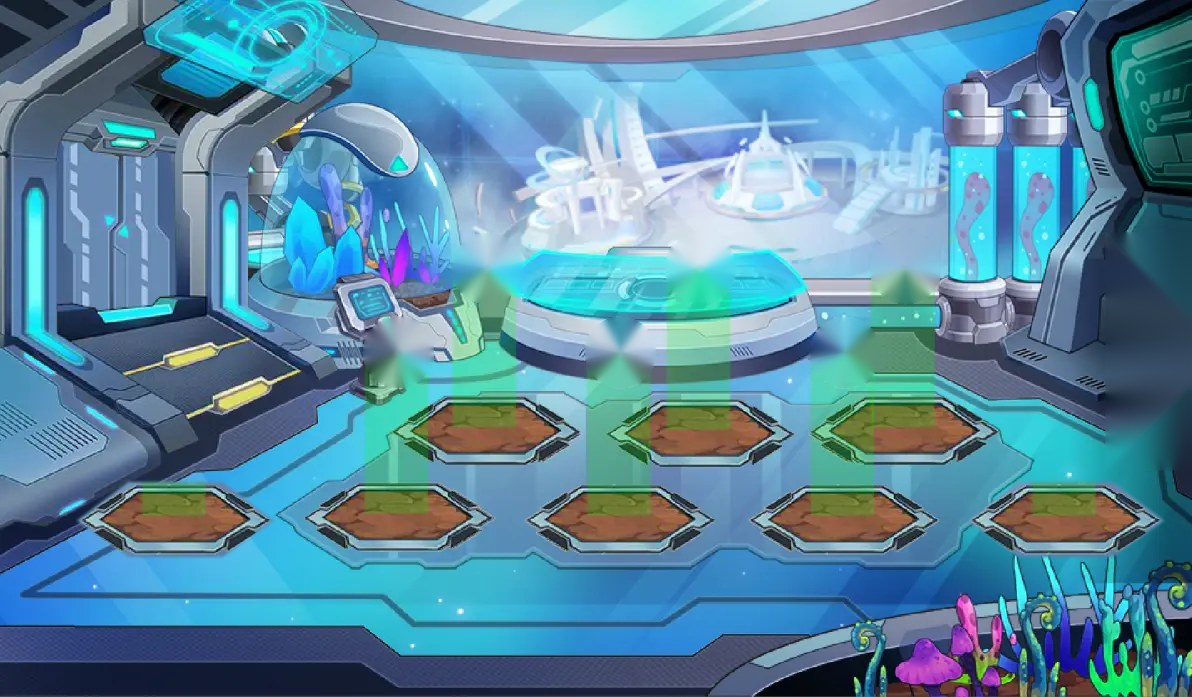
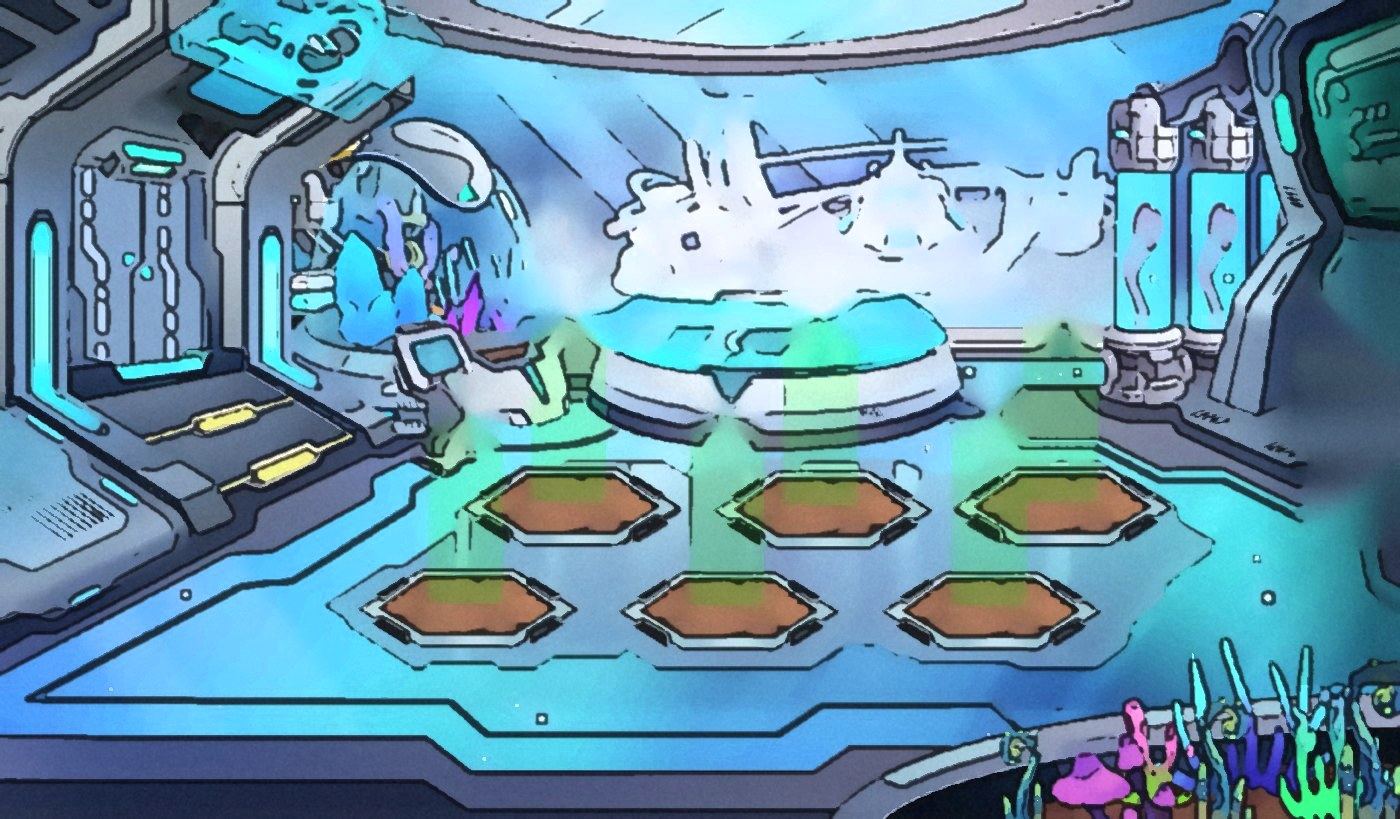
种植园：改为 6 块田（多买的第 7、8 块用邮件退还），菜单回到左侧中间，背景换成和基地一样的手绘风格
Claude-Session: https://claude.ai/code/session_014eRY2W2EarstaPs5b1tgXJ

diff --git a/js/ui/game.js b/js/ui/game.js
@@ -6526,12 +6526,11 @@
     return (h ? h + ' 小时 ' : '') + (h || m ? m + ' 分 ' : '') + s + ' 秒';
   }
   /* 2026-11-04：种植园改成和基地一样的场景（背景 images/base/farm.jpg），左边是功能菜单，左下角「前往基地」。
-   * 8 块田按背景图摆：t 是田的中心，b 是田上方的气泡（正好盖住原图里手套图标的位置）；还没开的田显示锁。
-   * 田的顺序就是存档里 acc.farm.plots 的顺序：前 4 块是基础的，后 4 块是种子商店扩建的。 */
+   * 6 块田按背景图摆：t 是田的中心，b 是田上方的气泡（正好盖住原图里手套图标的位置）；还没开的田显示锁。
+   * 田的顺序就是存档里 acc.farm.plots 的顺序：前 4 块是基础的，后 2 块是种子商店扩建的（2026-11-04 起一共 6 块）。 */
   var FARM_POS = [
     { t: [41.1, 61.7], b: [40.9, 38.5] }, { t: [59.6, 61.7], b: [58.7, 38.5] }, { t: [75.5, 61.7], b: [75.9, 38.5] },
-    { t: [33.6, 73.9], b: [33.4, 50.5] }, { t: [52.0, 73.9], b: [52.0, 50.5] }, { t: [70.5, 73.9], b: [70.9, 50.5] },
-    { t: [14.7, 74.6], b: [14.7, 50.5], beam: 1 }, { t: [89.3, 74.6], b: [89.3, 50.5], beam: 1 }
+    { t: [33.6, 73.9], b: [33.4, 50.5] }, { t: [52.0, 73.9], b: [52.0, 50.5] }, { t: [70.5, 73.9], b: [70.9, 50.5] }
   ];
   var SPROUT_SVG = '<svg class="it-ic" viewBox="0 0 64 64" aria-hidden="true"><g stroke="#23422b" stroke-width="2.5" stroke-linejoin="round" stroke-linecap="round"><path d="M32 58V30" fill="none"/><path d="M32 38c-2-10-10-14-20-13 1 10 8 15 20 13z" fill="#7cc95a"/><path d="M32 31c2-11 11-16 22-15-1 11-10 16-22 15z" fill="#5fb548"/></g></svg>';
   function farmReadyN() { if (!acc || !farmOpen()) return 0; return farm().plots.filter(farmReady).length; }
@@ -6546,7 +6545,6 @@
     var lab = st === 'lock' ? '扩建' : st === 'empty' ? '种植' : st === 'ready' ? '收获' : farmClock(p);
     var tip = '田 ' + (i + 1) + (st === 'lock' ? '：还没开，可以在种子商店扩建' : st === 'empty' ? '：空着，点一下种植' : st === 'ready' ? ' · ' + itemName(p.seed) + '：成熟了，点一下收获「' + itemName(S.crop) + '」×' + S.yield : ' · ' + itemName(p.seed) + '：还要 ' + farmLeftText(p));
     return '<div class="fp fp-' + st + '" data-fp="' + i + '">' +
-      (P.beam && st !== 'lock' ? '<i class="fp-beam" style="left:' + P.t[0] + '%;top:' + P.b[1] + '%;height:' + (P.t[1] - P.b[1] - 4).toFixed(1) + '%"></i>' : '') +
       '<button type="button" class="fp-soil" data-fpi="' + i + '" style="left:' + P.t[0] + '%;top:' + P.t[1] + '%" aria-label="' + esc(tip) + '">' + (st === 'grow' || st === 'ready' ? '<span class="fp-crop' + (st === 'ready' ? ' ripe' : '') + '">' + (st === 'ready' ? H.itemIcon(S.crop) : SPROUT_SVG) + '</span>' : '') + '</button>' +
       '<button type="button" class="fp-bub" data-fpi="' + i + '" style="left:' + P.b[0] + '%;top:' + P.b[1] + '%" title="' + esc(tip) + '" aria-label="' + esc(tip) + '"><span class="fp-ic">' + ic + '</span><span class="fp-lab" data-fpclock="' + i + '">' + lab + '</span></button></div>';
   }

diff --git a/js/data/changelog.js b/js/data/changelog.js
@@ -4,7 +4,7 @@
  * 航行日志默认展开最新一条，更早的折叠在「更早的改动」里。
  * ========================================================== */
 var CHANGELOG = [
-  { date: '2026-11-04', title: '太空种植园改版', items: ['太空种植园改成和基地一样的场景：8 块田摆在种植舱里，点田上方的气泡就能种植、收获，没开的田显示锁，可以在种子商店扩建', '左边新增菜单：一键收获、一键种植、种子商店、作物仓库', '基地左下角新增「前往种植园」，有成熟的作物时会亮红点；种植园左下角是「前往基地」，基地里有精灵可以收获经验时也会亮红点'] },
+  { date: '2026-11-04', title: '太空种植园改版', items: ['太空种植园改成和基地一样的场景：6 块田摆在种植舱里，点田上方的气泡就能种植、收获，没开的田显示锁，可以在种子商店扩建', '左边新增菜单：一键收获、一键种植、种子商店、作物仓库', '太空种植园一共 6 块田（基础 4 块，最多扩建 2 块）。之前扩建了第 7、8 块田的船员，买田的能量和田里的作物会通过邮件退还', '基地左下角新增「前往种植园」，有成熟的作物时会亮红点；种植园左下角是「前往基地」，基地里有精灵可以收获经验时也会亮红点'] },
   { date: '2026-11-03', title: 'Wiki 获得方式修正', items: ['按游戏里实际的获得途径，重新核对了 Wiki 里所有精灵的获得方式', '补上了圣晶石召唤（稀有精灵精元、当期 UP 精灵精元）、争霸赛兑换券、冰块里的亚哆、炙热核心的火月鼠等途径', '不再把米饭火鸡、亚哆写成会自然出现的野生精灵，也不再把「瘴气污染的记录」列为可以遇到精灵的地方；修正了叶粒魔种被误写成神秘精灵的问题'] },
   { date: '2026-11-03', title: '放生一键选择', items: ['放生页的「选中全部常见精灵」不再选中超过 30 级的精灵（异色精灵本来就不会选中），练过的精灵需要放生时请手动勾选'] },
   { date: '2026-11-03', title: '登录后默认进基地', items: ['每次打开游戏，登录后默认来到自己的基地（基地还没开放的船员照旧回到上次的页面）'] },

diff --git a/js/engine/award.js b/js/engine/award.js
@@ -231,6 +231,22 @@ var AWD = (function () {
         (oldAcc ? '\n另外送上累积经验 ×50,000 作为补偿。' : '') + '\n请领取附件。', att: { exp: oldAcc ? 50000 : 0, energy: pe, items: pn ? { pot200: pn } : undefined } }, now);
       else seen['pot-swap'] = now;
     }
+    // 2026-11-04：太空种植园改成 6 块田（基础 4 块 + 最多扩建 2 块）。之前买了第 7、8 块田的：退还买这两块田的能量，
+    // 田里种着的照常给（成熟了给作物，没成熟退种子），然后把多出来的田收掉
+    var FM = a.farm, FMAX = GROW.FARM_N + GROW.FARM_EXTRA_MAX;
+    if (FM && typeof FM === 'object' && ((FM.extra | 0) > GROW.FARM_EXTRA_MAX || (Array.isArray(FM.plots) && FM.plots.length > FMAX))) {
+      var fx = FM.extra | 0, fe = 0, fit = {};
+      for (var fi = GROW.FARM_EXTRA_MAX; fi < Math.min(fx, GROW.PLOT_PRICE.length); fi++) fe += GROW.PLOT_PRICE[fi];
+      (Array.isArray(FM.plots) ? FM.plots.slice(FMAX) : []).forEach(function (p) {
+        var S = p && GROW.SEEDS[p.seed]; if (!S) return;
+        if (now - p.t >= S.min * 60000) { fit[S.crop] = (fit[S.crop] || 0) + S.yield; if (S.back >= 1) fit[p.seed] = (fit[p.seed] || 0) + 1; }
+        else fit[p.seed] = (fit[p.seed] || 0) + 1;
+      });
+      FM.extra = Math.min(fx, GROW.FARM_EXTRA_MAX); if (Array.isArray(FM.plots)) FM.plots = FM.plots.slice(0, FMAX);
+      if (fe || Object.keys(fit).length) send(a, { id: 'farm6', title: '太空种植园改为 6 块田 · 退还', body: '{name}，你好！\n太空种植园改版后一共 6 块田（基础 4 块，最多扩建 2 块）。' +
+        (fe ? '\n你之前多扩建的田已经收回，退还买田的能量 ×' + fmt(fe) + '。' : '') + (Object.keys(fit).length ? '\n那几块田里种着的作物（成熟了的照常收获，没成熟的退回种子）一并放在附件里。' : '') + '\n请领取附件。',
+        att: { energy: fe, items: Object.keys(fit).length ? fit : undefined } }, now);
+    }
     // 2026-10-21：先驱之塔奖励提高，给之前爬过塔的船员补差额
     if (!seen['tower-x10']) {
       var TW0 = a.tower, nf = TW0 ? (TW0.clears || 0) * PVE.TOWER.top + Math.max(0, (TW0.f || 1) - 1) : 0, ce = 0, ct = 0;

diff --git a/css/style.css b/css/style.css
@@ -3683,7 +3683,6 @@ html.land-rot .sheet { height: 100%; overflow-y: auto; overflow-x: hidden; -webk
 .fp-empty .fp-lab { background: rgba(40, 120, 70, .9); }
 .fp-lock .fp-bub { filter: grayscale(.7); opacity: .8; }
 .fp-lock .fp-lab { background: rgba(60, 60, 70, .82); }
-.fp-beam { position: absolute; transform: translateX(-50%); width: 5%; background: linear-gradient(to bottom, rgba(120, 255, 160, 0), rgba(120, 255, 160, .32) 35%, rgba(120, 255, 160, .32)); pointer-events: none; z-index: 1; }
 @keyframes fpBob { 0%, 100% { transform: translate(-50%, -50%); } 50% { transform: translate(-50%, -62%); } }
 @keyframes fpSway { 0%, 100% { transform: translateX(-50%) rotate(-4deg); } 50% { transform: translateX(-50%) rotate(4deg); } }
 @keyframes fpPop { 0% { transform: translate(-50%, -50%) scale(1); } 40% { transform: translate(-50%, -50%) scale(1.12); } 100% { transform: translate(-50%, -50%) scale(1); } }
@@ -3702,7 +3701,6 @@ html.land-rot .sheet { height: 100%; overflow-y: auto; overflow-x: hidden; -webk
 .sg-dot { position: absolute; top: -5px; right: -5px; width: 12px; height: 12px; border-radius: 50%; background: var(--red); border: 2px solid #fff; }
 .base-room.editing .scene-go { display: none; }
 @media (max-width: 560px) { .scene-go { left: 6px; bottom: 6px; padding: 4px 8px; font-size: 11.5px; gap: 4px; } .sg-ic { font-size: 14px; } .fp-bub { border-width: 1.5px; } }
-@media (min-width: 761px) { .farm-side { top: 10px; transform: none; } }   /* 种植园：菜单放左上角，免得挡住最左边那块田的气泡 */
 @container (max-width: 620px) {   /* 手机：两排气泡离得近，不显示气泡下面的文字（点气泡会提示剩余时间），气泡大一点好点 */
   .fp-lab { display: none; }
   .fp-bub { width: 8.4%; }

diff --git a/js/engine/grow.js b/js/engine/grow.js
@@ -457,8 +457,8 @@ var GROW = (function () {
 
   /* ---------- 太空种植园：种下种子，到时间收获 ----------
    * 药草、活力花卉收获时有 20% 的概率掉 1 颗种子（back），水稻种子一定退回。种子在生态舱的种子商店用能量买（seedShop），
-   * 商店还卖额外的种植栏位：基础 4 块田，最多再加 4 块（a.farm.extra） */
-  var FARM_N = 4, FARM_EXTRA_MAX = 4, PLOT_PRICE = [2000, 4000, 8000, 16000], SEED_PRICE = 100, SEED_SHOP = ['s_herb', 's_flower'], SEED_SHOP_MAX = 99;
+   * 商店还卖额外的种植栏位：基础 4 块田，最多再加 2 块（a.farm.extra；2026-11-04 起一共 6 块，原来最多 8 块，多买的由 award.js 退还） */
+  var FARM_N = 4, FARM_EXTRA_MAX = 2, PLOT_PRICE = [2000, 4000, 8000, 16000], SEED_PRICE = 100, SEED_SHOP = ['s_herb', 's_flower'], SEED_SHOP_MAX = 99;
   var SEEDS = {
     s_herb: { name: '药草种子', d: '绿色的药草籽，在恩施 · 生态舱的种子商店出售。种下去要 8 小时，收获药草；收获时有 20% 的概率掉落 1 颗药草种子。', crop: 'c_herb', min: 480, yield: 50, back: 0.2 },
     s_flower: { name: '活力花种子', d: '蓝色的花籽，在恩施 · 生态舱的种子商店出售。种下去要 8 小时，收获活力花卉；收获时有 20% 的概率掉落 1 颗活力花种子。', crop: 'c_flower', min: 480, yield: 50, back: 0.2 },

diff --git a/README.md b/README.md
@@ -270,7 +270,7 @@ sudo git clone --depth 1 https://github.com/Cucumber418/flame1down1 /opt/flame1d
   - 原理：对战的浏览器每 0.25 秒把画面（战况快照、新的战斗记录、出招 / 受伤动画提示）发给服务器，服务器转给观众（`server/social.js` 里的 cast / watch 消息）。平衡排位里对手还没派出的精灵，观众也看不到。
 - **拜访茶室**：玩家列表和名片里的「茶室」按钮，可以看对方茶室里正在训练的精灵，并用自己的出战配队挑战它们（电脑操控）。每天前 5 场茶室对战各奖励 20000 累积经验（进经验背包，2026-11-03 前是 1000，常量 `PVE.TEA_EXP`），赢输都算，认输不算，0 点刷新。对方要读完「陆羽茶室」支线才有茶室。
 - **基地收获气泡（2026-11-03）**：自己基地里展示的精灵训练满 1 小时，头上冒出经验气泡，点一下收获经验、留在原地重新计时（交易 `home` 的 `reap`，`js/engine/grow.js`）；经验仍然最多累计 24 小时，装了自律训练装置的不冒气泡。收获只就地更新这一只精灵，不重画基地。
-- **太空种植园场景（2026-11-04）**：种植园改成和基地一样的场景（背景 `images/base/farm.jpg`，原图里别的游戏的按钮已经抹掉，另外补了两块田）。8 块田的位置在 `js/ui/game.js` 的 `FARM_POS`（t 田的中心，b 气泡的位置），顺序就是 `acc.farm.plots` 的顺序；左边菜单是一键收获、一键种植、种子商店（弹窗，和种子商店页同一套 `seedShopBody`）、作物仓库。种植、收获只就地更新那一块田。基地左下角「前往种植园」、种植园左下角「前往基地」，有东西可收时带红点（`sceneGoHTML`）。
+- **太空种植园场景（2026-11-04）**：种植园改成和基地一样的场景（背景 `images/base/farm.jpg`：原图里别的游戏的按钮已经抹掉，再用 `tools/stylize_bg.py` 转成和基地一样的手绘风格，并略降饱和度）。一共 6 块田（基础 4 块 + 最多扩建 2 块，`GROW.FARM_EXTRA_MAX = 2`；原来最多 8 块，多买的在 `js/engine/award.js` 用邮件 `farm6` 退还能量和田里的作物）。田的位置在 `js/ui/game.js` 的 `FARM_POS`（t 田的中心，b 气泡的位置），顺序就是 `acc.farm.plots` 的顺序；左边菜单是一键收获、一键种植、种子商店（弹窗，和种子商店页同一套 `seedShopBody`）、作物仓库。种植、收获只就地更新那一块田。基地左下角「前往种植园」、种植园左下角「前往基地」，有东西可收时带红点（`sceneGoHTML`）。
 - **去好友基地偷经验（2026-11-03）**：好友（自己关注了的人）基地里训练满 1 小时的精灵冒粉色气泡，点一下偷走它现存经验的 10%，进自己的经验背包（交易 `homeSteal`；被偷那边由服务器在 `server/steal.js` 里改主人的存档）。被偷走的记在主人那边的 `home.mons[i].st`（偷过的人记在 `sb`），这一轮一直扣着，收获或收回后清零；每人每只每轮只能偷一次，一只精灵一轮最多被偷走一半；每人每天最多偷 30000（存档 `stealD`）。被偷会记进主人的基地动态，并实时推送给主人。
 - **茶室动态与留言板**（`server/homelog.js`，前端在 `social.js` 搜「茶室信息栏」）：有人拜访（`/api/home` 时记下）、摸摸展示的精灵、打完茶室对战，都记进主人的「茶室动态」，同一位访客 30 分钟内的动作合成一条；主人在线时服务器推 `home-ev` 消息弹提示，不在线时下次登录用 `peek=1` 查有几条新的，「我的茶室」按钮上显示数字。留言板在自己和别人的茶室里都有，每条最多 200 字、每人 10 秒一条；自己的留言能删，主人能删自己茶室里的任何留言。数据存在 `DATA_DIR/homelog.json`（每个茶室最多 200 条动态、300 条留言）。
 
